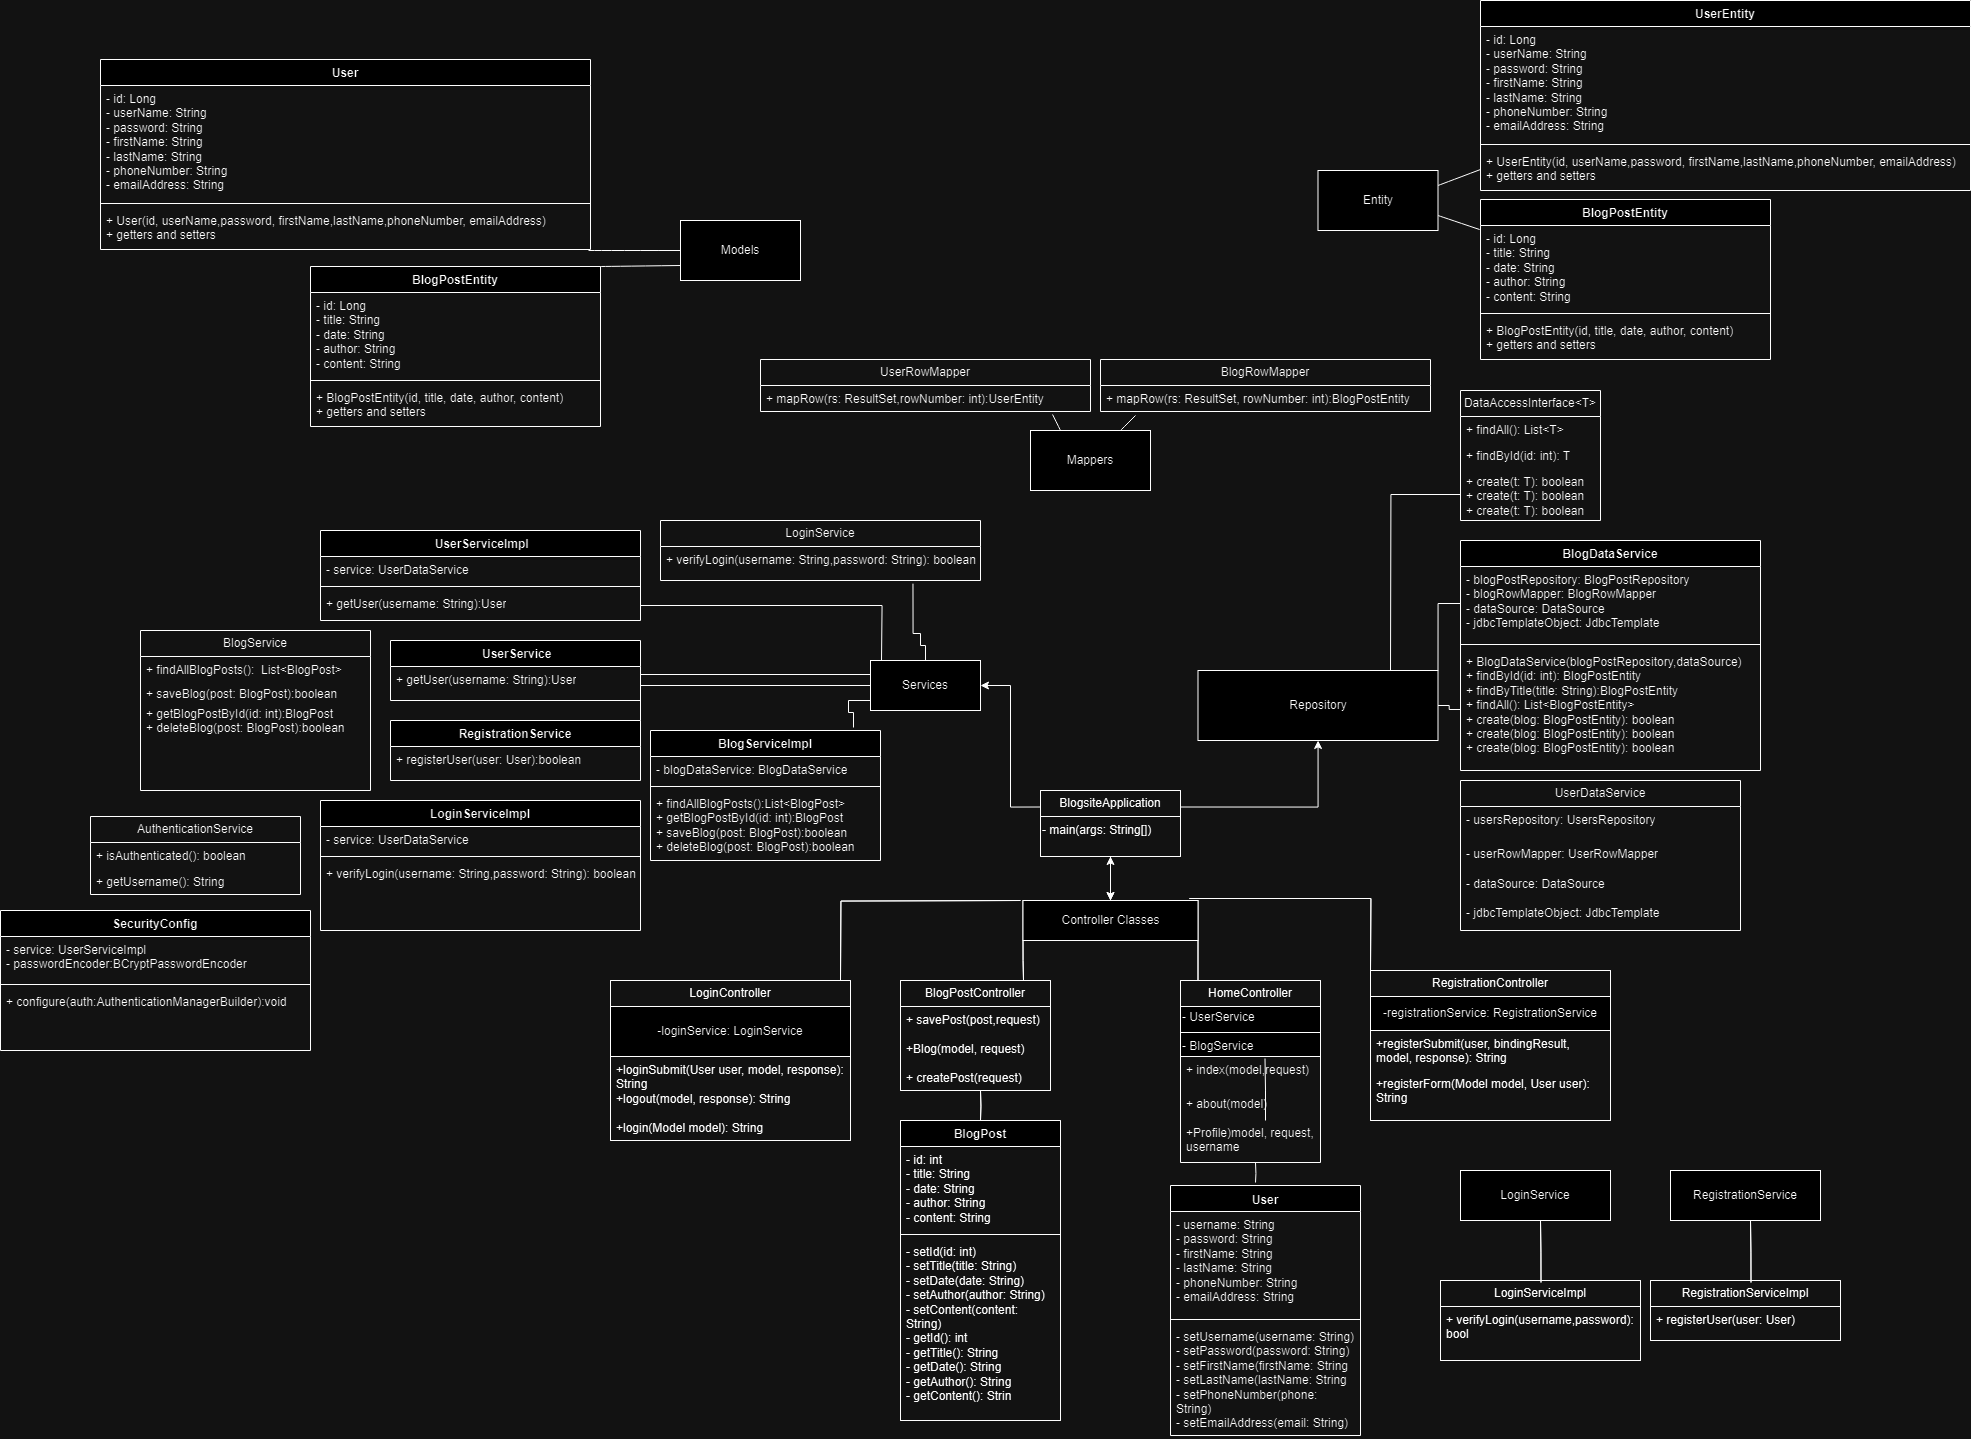
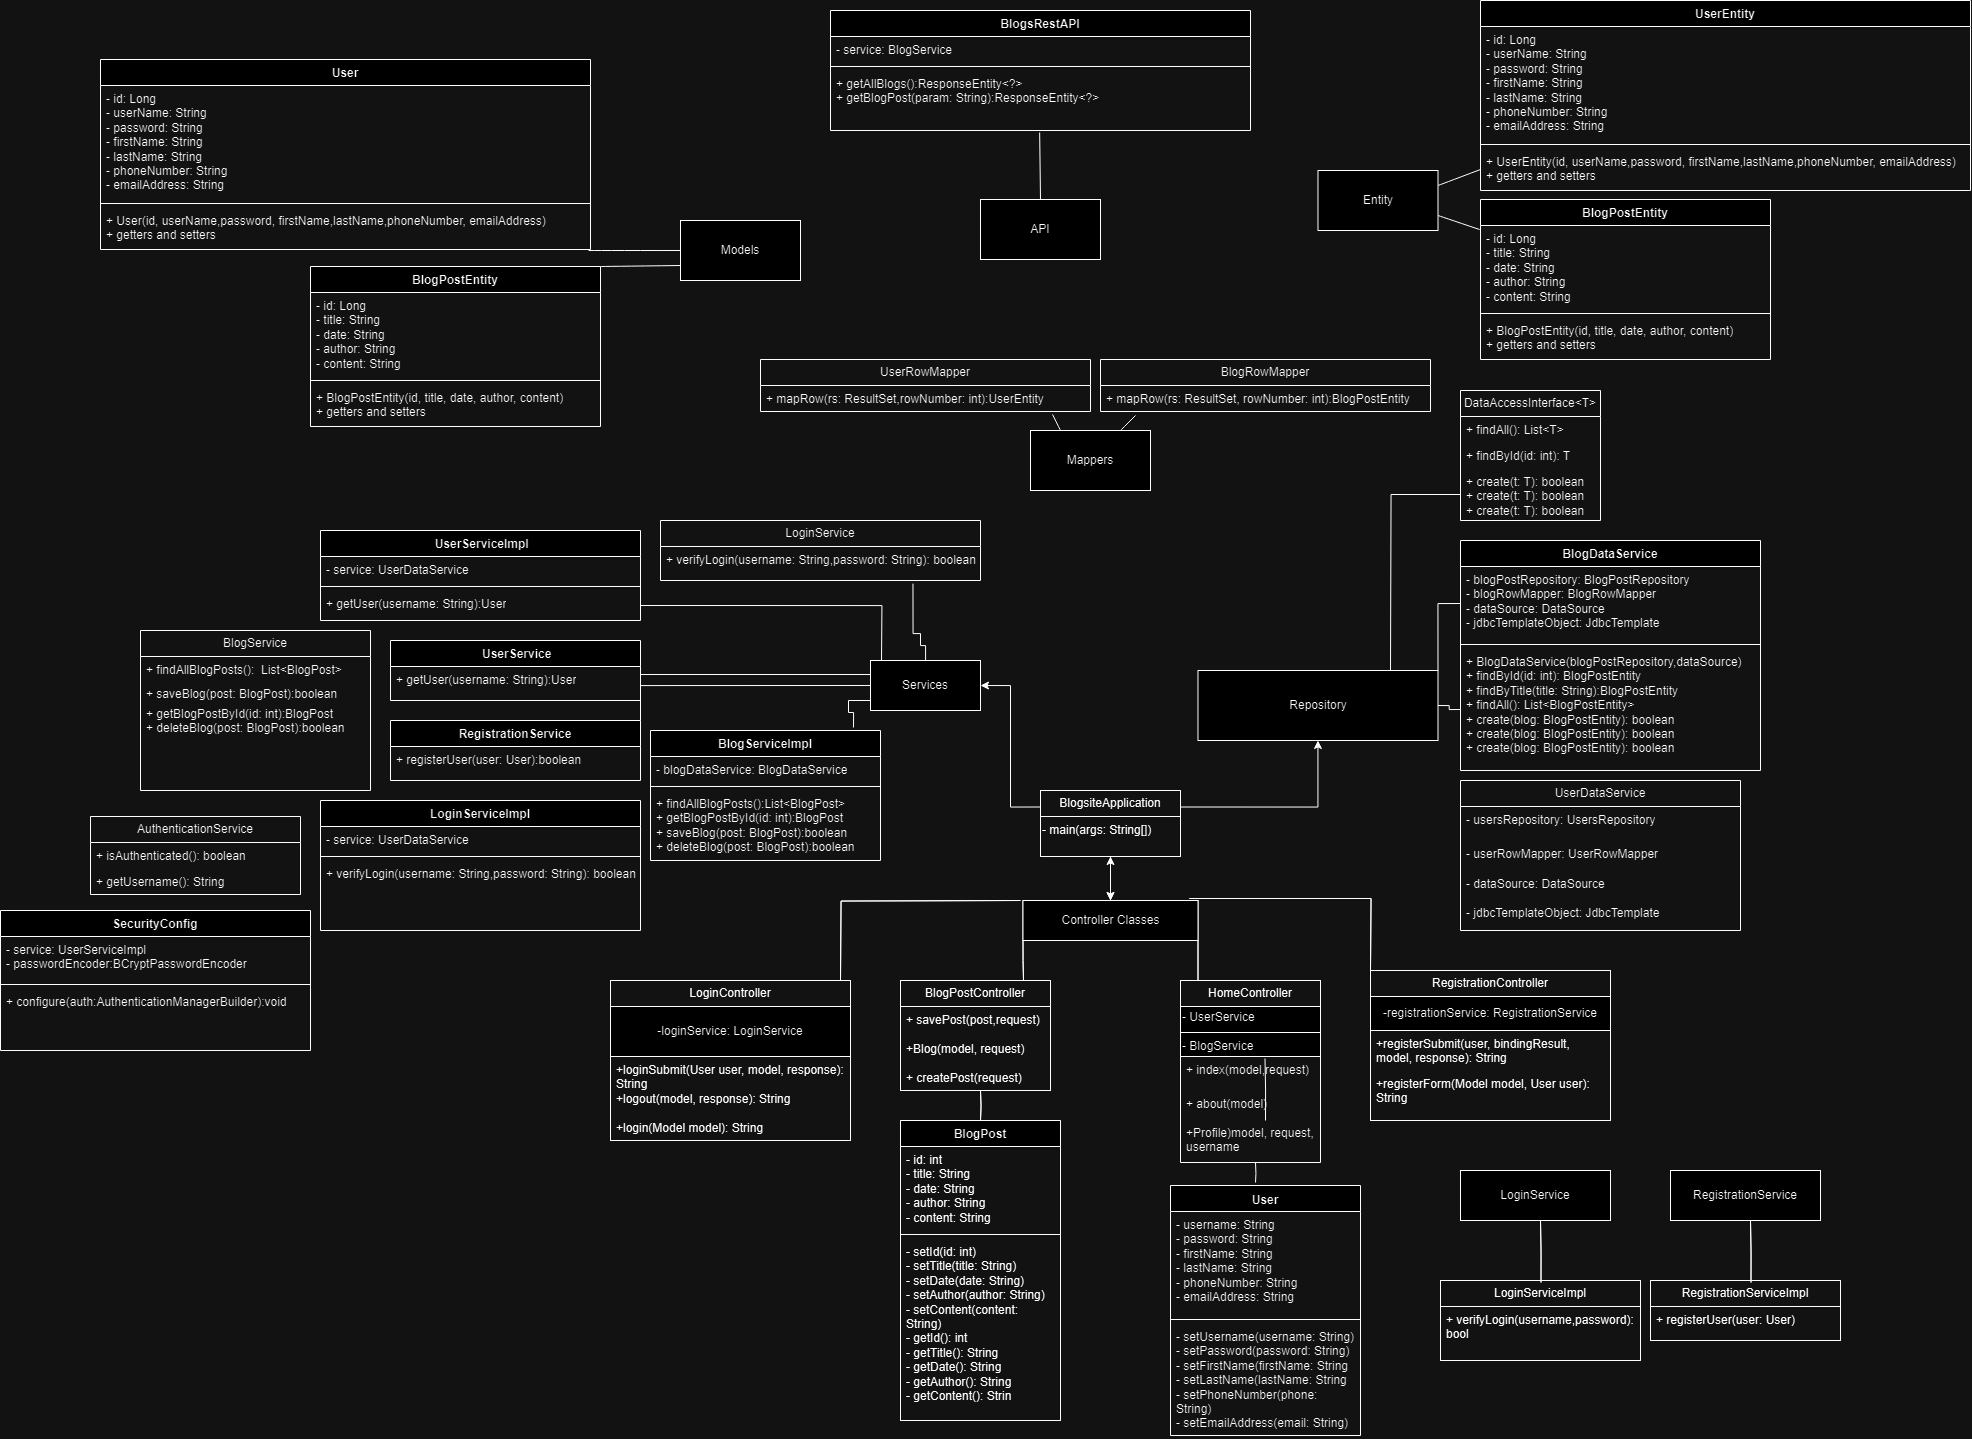
Updated class diagram

diff --git a/blogsite/src/main/java/com/cst339/blogsite/api/BlogsRestAPI.java b/blogsite/src/main/java/com/cst339/blogsite/api/BlogsRestAPI.java
@@ -10,7 +10,6 @@ import org.springframework.web.bind.annotation.RequestMapping;
 import org.springframework.web.bind.annotation.RestController;
 
 import com.cst339.blogsite.models.BlogPost;
-import com.cst339.blogsite.models.UserModel;
 import com.cst339.blogsite.services.BlogService;
 import org.springframework.web.bind.annotation.RequestParam;
 
